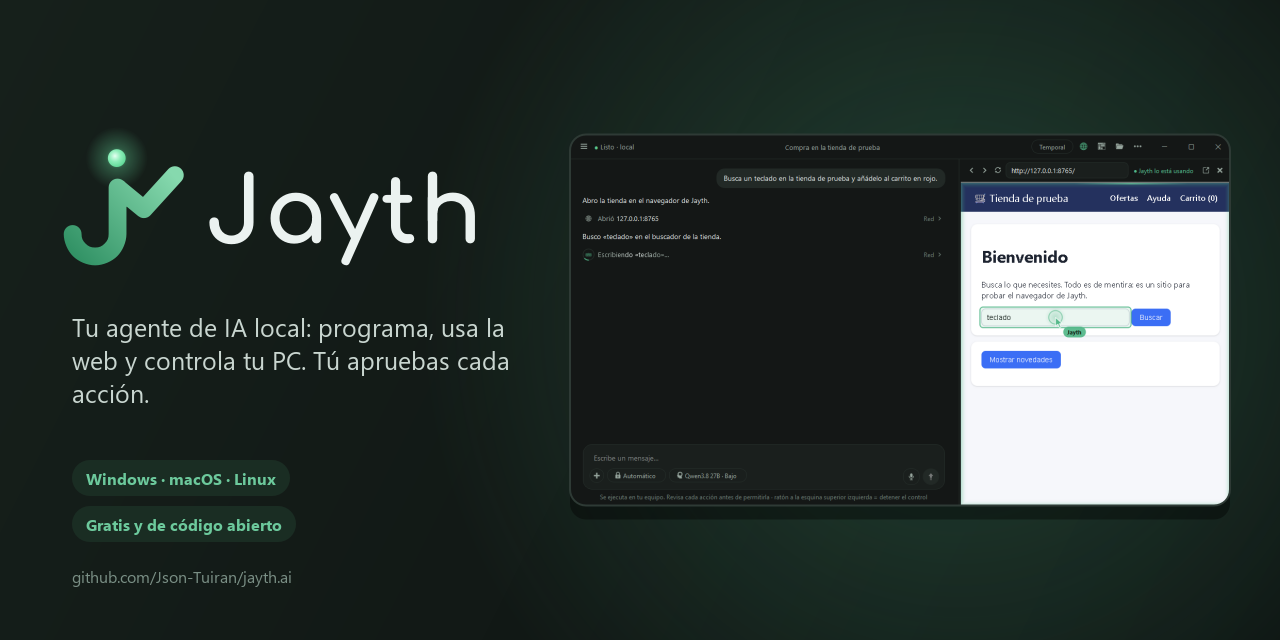
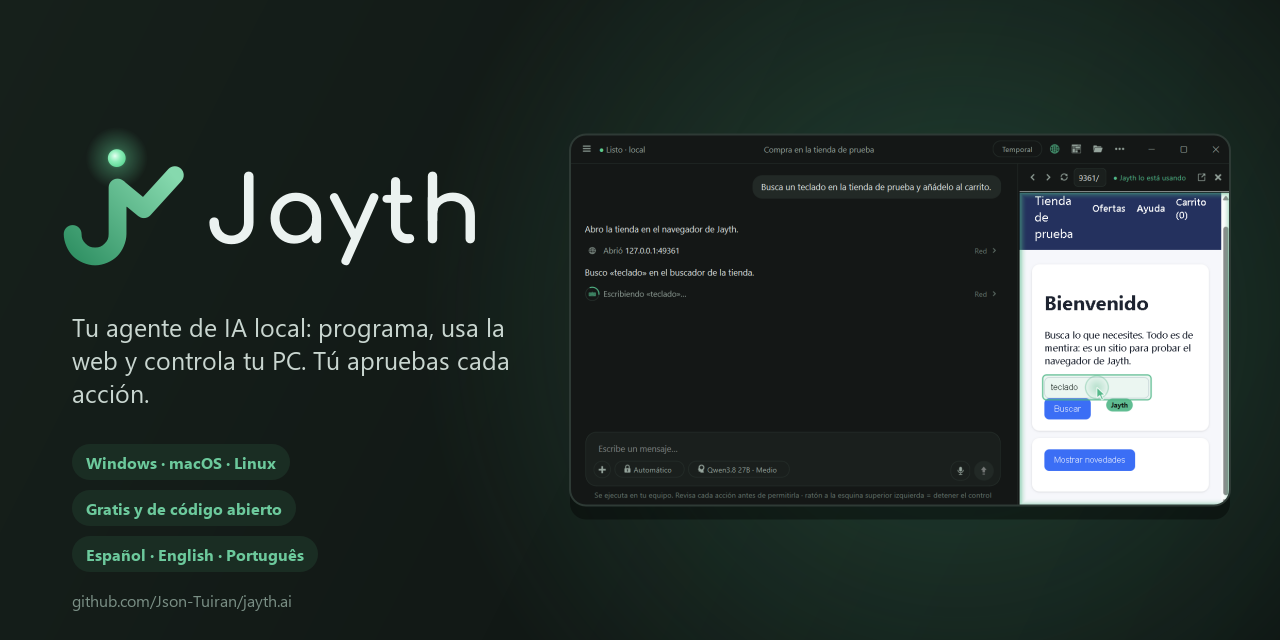
Capturas y GIF nuevos en español e inglés (versión 0.5.0)
- docs/img/{chat,code,navegador}_{es,en}.png y demo_{es,en}.gif: grabados desde la app actual (logo nuevo, interfaz en
  cada idioma, editar mensajes), con la interfaz al 120 % para que se lea mejor. Cada README usa los de su idioma.
- docs/img/social.png: imagen para compartir con la captura nueva y la etiqueta «Español · English · Português».
- Fuera las capturas y el GIF anteriores (chat_dark, code_dark, navegador, demo).

diff --git a/README.en.md b/README.en.md
@@ -16,7 +16,7 @@ Created by **Ing. Jeison Tuiran** · Free software under the [GPL-3.0](LICENSE) 
 > **Languages:** Jayth's interface is available in **English, Spanish and Portuguese (Brazil)**. It follows your system
 > language and can be changed in *Settings → General → Interface language*.
 
-<p align="center"><img src="docs/img/demo.gif" width="860"
+<p align="center"><img src="docs/img/demo_en.gif" width="860"
   alt="Jayth builds a Python calculator: it thinks, says what it is doing, writes the file, runs it, checks it with a screenshot and answers"></p>
 
 ## ⬇ Download
@@ -74,11 +74,11 @@ Each link downloads the latest version for that system. All versions and their n
 **Jayth Code:** explorer with file-type icons, previews for Markdown, Word, Excel, PowerPoint, PDF and images, and the
 agent working on your project (the files it changes are marked in green).
 
-<p align="center"><img src="docs/img/code_dark.png" width="860" alt="Jayth Code: explorer, formatted README and the agent on the right"></p>
+<p align="center"><img src="docs/img/code_en.png" width="860" alt="Jayth Code: explorer, formatted README and the agent on the right"></p>
 
 **Built-in browser:** the agent opens websites, searches, clicks and fills in forms in plain sight; you can step in at any time.
 
-<p align="center"><img src="docs/img/navegador.png" width="860" alt="The agent types into a shop's search box with its «Jayth» pointer"></p>
+<p align="center"><img src="docs/img/navegador_en.png" width="860" alt="The agent types into a shop's search box with its «Jayth» pointer"></p>
 
 ## Download and install
 

diff --git a/README.md b/README.md
@@ -13,7 +13,7 @@ Creado por **Ing. Jeison Tuiran** · Software libre con licencia [GPL-3.0](LICEN
 
 **Español** · [English](README.en.md)
 
-<p align="center"><img src="docs/img/demo.gif" width="860"
+<p align="center"><img src="docs/img/demo_es.gif" width="860"
   alt="Jayth crea una calculadora en Python: piensa, cuenta lo que hace, escribe el archivo, lo abre, lo comprueba con una captura y responde"></p>
 
 ## ⬇ Descargar
@@ -74,11 +74,11 @@ Cada enlace baja directamente la última versión para ese sistema. Todas las ve
 **Jayth Code:** explorador con iconos por tipo, vista previa de Markdown, Word, Excel, PowerPoint, PDF e imágenes, y
 el agente trabajando en tu proyecto (los archivos que cambia quedan marcados en verde).
 
-<p align="center"><img src="docs/img/code_dark.png" width="860" alt="Jayth Code: explorador, README formateado y el agente en el panel derecho"></p>
+<p align="center"><img src="docs/img/code_es.png" width="860" alt="Jayth Code: explorador, README formateado y el agente en el panel derecho"></p>
 
 **Navegador integrado:** el agente abre webs, busca, pulsa y rellena formularios a la vista; tú puedes intervenir cuando quieras.
 
-<p align="center"><img src="docs/img/navegador.png" width="860" alt="El agente escribe en el buscador de una tienda con su puntero «Jayth»"></p>
+<p align="center"><img src="docs/img/navegador_es.png" width="860" alt="El agente escribe en el buscador de una tienda con su puntero «Jayth»"></p>
 
 ## Descargar e instalar
 
